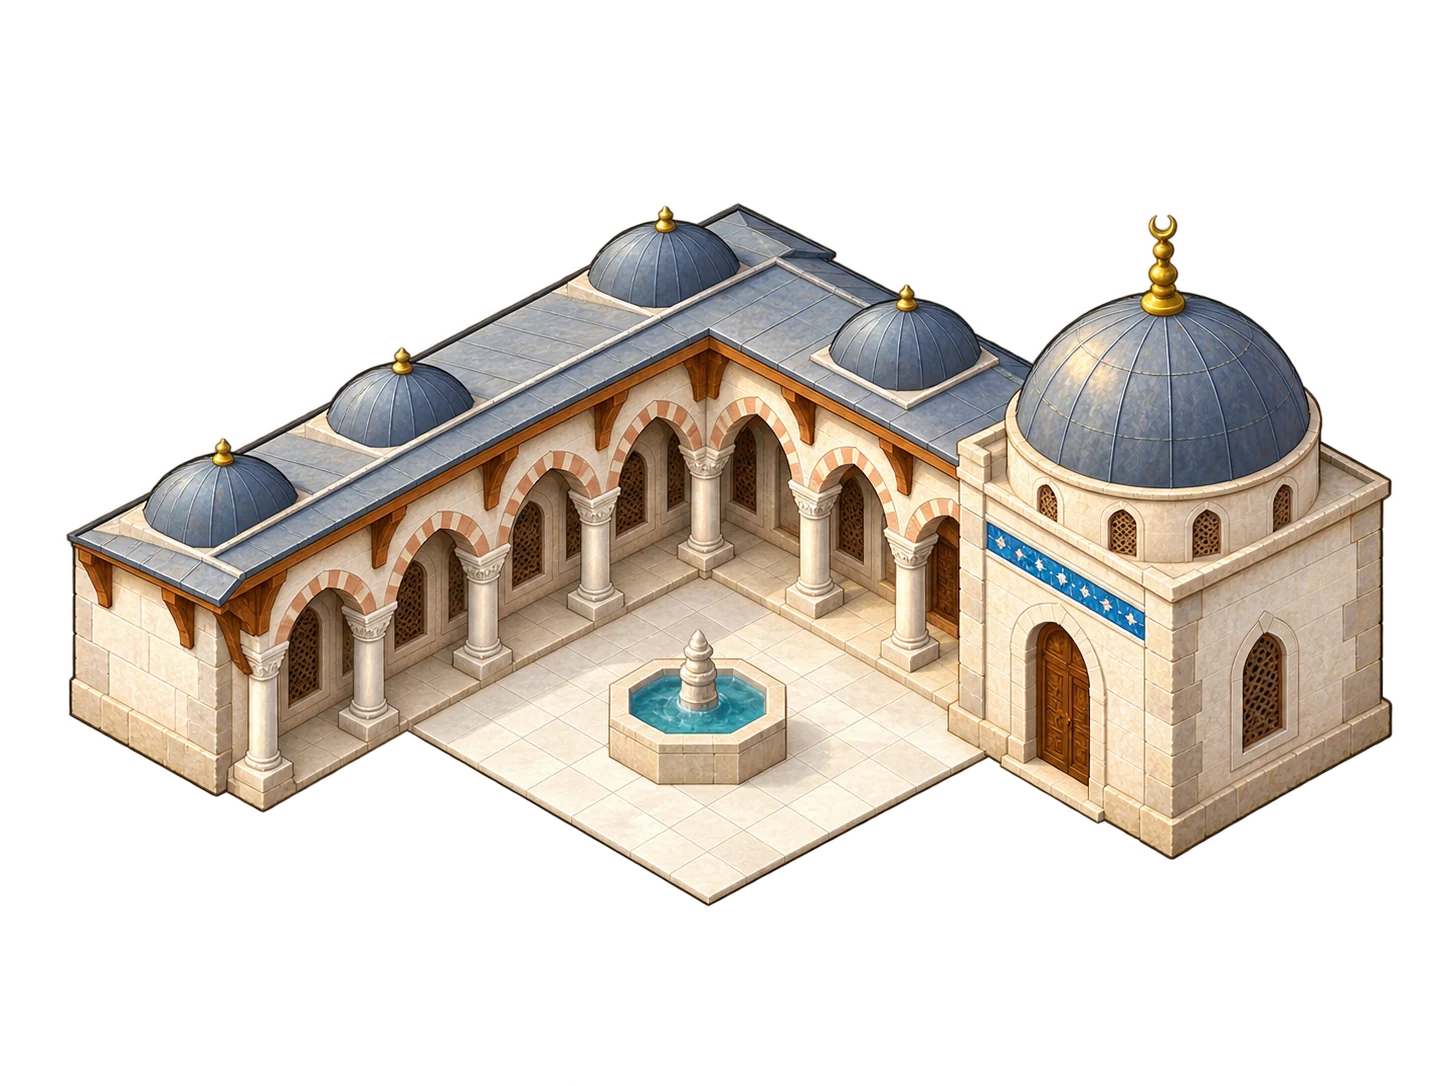
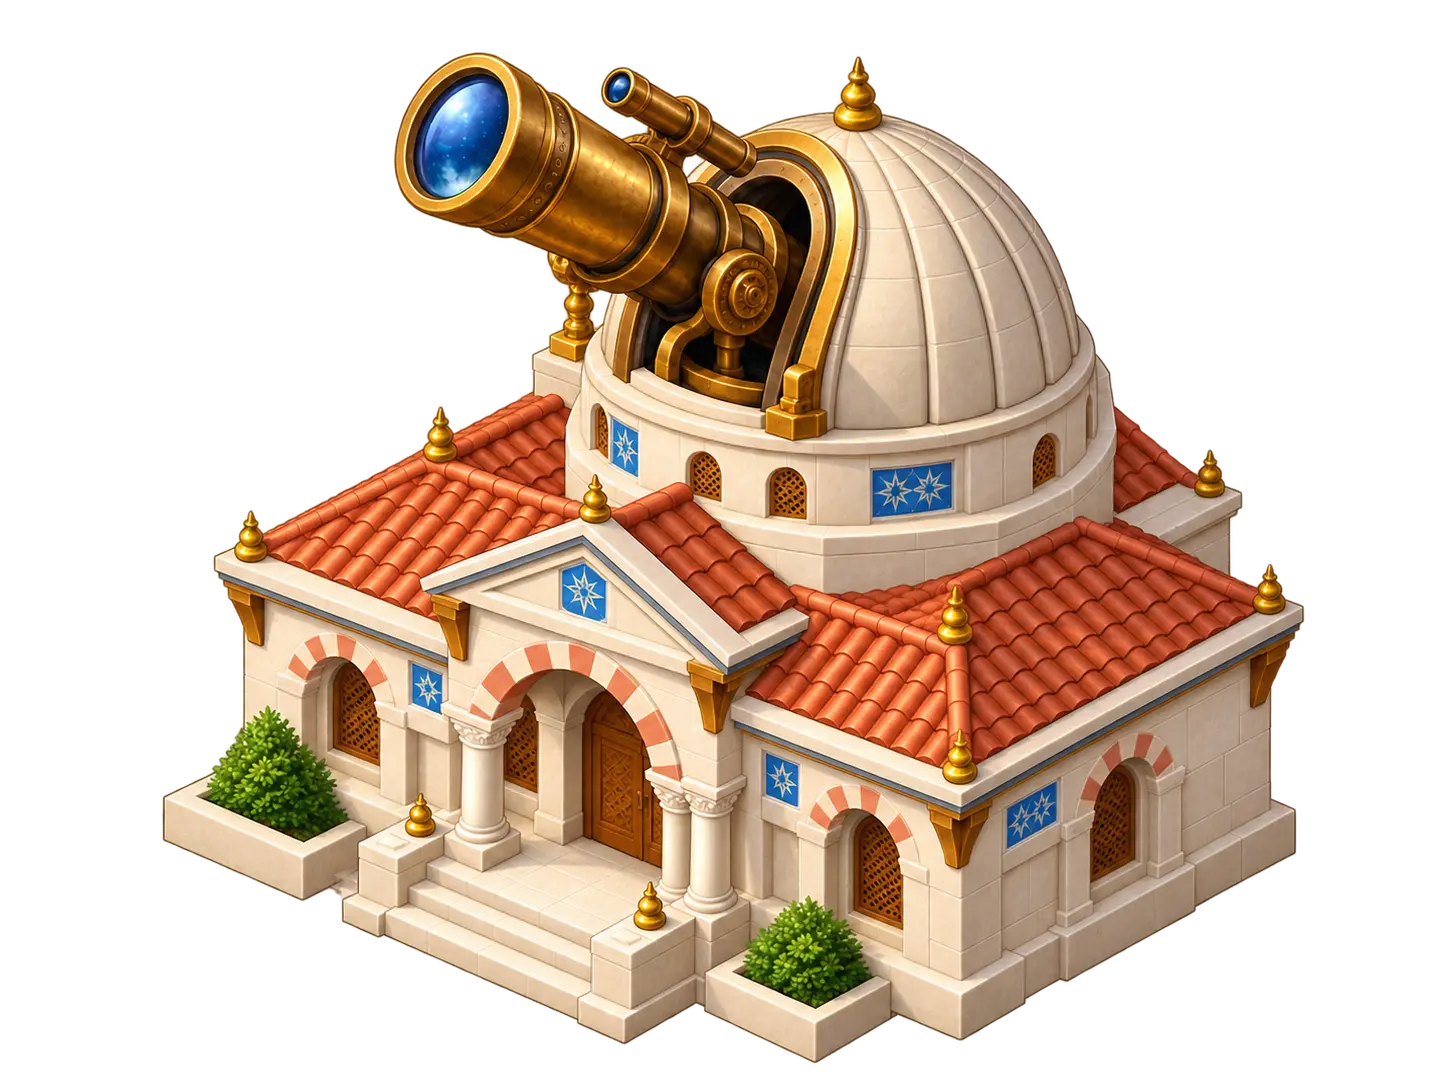
Redraw madrasa as integrated observatory across three stages

diff --git a/payitaht/components/game/phaser-city.ts b/payitaht/components/game/phaser-city.ts
@@ -2073,28 +2073,6 @@ export class CityScene extends Phaser.Scene {
       img.setFlipX(flip)
       dispW = img.width * scale; dispH = img.height * scale
       this.pieces.push(img)
-      if (id === 'medrese' && level > 0) {
-        // Arka düz çatıya kurulmuş büyük pirinç rasat dürbünü. Kaynak görsele
-        // göre koordinatlandırıldığı için her aşamada/slotta binayla ölçeklenir.
-        const glass = this.add.graphics().setDepth(imgY + 0.035)
-        const x = img.width * 0.555, y = img.height * 0.315
-        glass.fillStyle(0x3a4350, 0.24); glass.fillEllipse(x + 9, y + 10, 94, 18)
-        glass.lineStyle(8, 0x654b32, 1)
-        glass.lineBetween(x, y - 22, x - 43, y + 9)
-        glass.lineBetween(x, y - 22, x + 45, y + 9)
-        glass.lineBetween(x, y - 22, x + 5, y + 11)
-        glass.fillStyle(0xa0793e, 1); glass.fillCircle(x, y - 24, 11)
-        glass.lineStyle(38, 0x67492e, 1); glass.lineBetween(x - 76, y - 47, x + 94, y - 123)
-        glass.lineStyle(29, 0xb28b4c, 1); glass.lineBetween(x - 73, y - 50, x + 89, y - 123)
-        glass.lineStyle(8, 0xe5c47f, 0.9); glass.lineBetween(x - 67, y - 56, x + 82, y - 123)
-        glass.fillStyle(0x364d5a, 1); glass.fillEllipse(x - 80, y - 46, 22, 40)
-        glass.lineStyle(6, 0xe4c583, 1); glass.strokeEllipse(x - 80, y - 46, 22, 40)
-        glass.fillStyle(0x533a28, 1); glass.fillEllipse(x + 94, y - 126, 15, 28)
-        glass.lineStyle(5, 0xd9b571, 1); glass.strokeEllipse(x + 94, y - 126, 15, 28)
-        glass.setPosition(anc.x + (flip ? dispW / 2 : -dispW / 2), imgY - dispH)
-        glass.setScale(flip ? -scale : scale, scale)
-        this.pieces.push(glass)
-      }
       // Sancaklar: görseldeki direklerin tepesine oyuncunun sancağı (tools/art → building-flags.json).
       // Boyalı yapılarda sancak/ayrıntı görsele dahildir; eski vektör
       // manifestindeki koordinatlar farklı tuvale işaret eder.

diff --git a/payitaht/lib/asset.ts b/payitaht/lib/asset.ts
@@ -64,6 +64,6 @@ export function buildingImage(id: string, level = 1, facing?: CoastFacing) {
     const variant = facing === 'straight' ? `${id}-duz` : id
     return `${asset(`/images/game/buildings/${variant}-painted-${buildingStage(level)}.webp`)}?art=${BUILDING_ART_REV}`
   }
-  if (isPaintedBuilding(id)) return `${asset(`/images/game/buildings/${id}-painted-${buildingStage(level)}.webp`)}?art=${BUILDING_ART_REV}`
+  if (isPaintedBuilding(id)) return `${asset(`/images/game/buildings/${id}-painted-${buildingStage(level)}.webp`)}?art=${id === 'medrese' ? '20260930-observatory-v1' : BUILDING_ART_REV}`
   return `${asset(`/images/game/buildings/${buildingArtKey(id, level, facing)}.webp`)}?art=${BUILDING_ART_REV}`
 }
